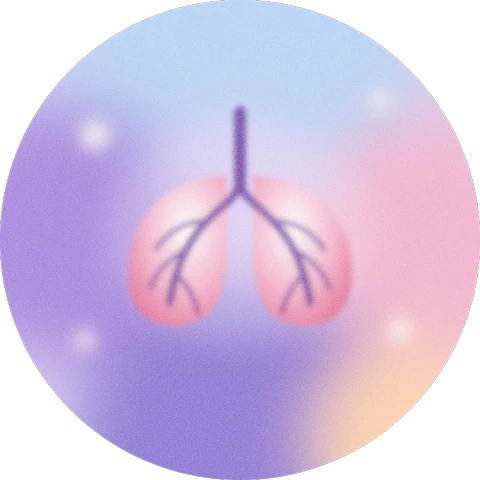
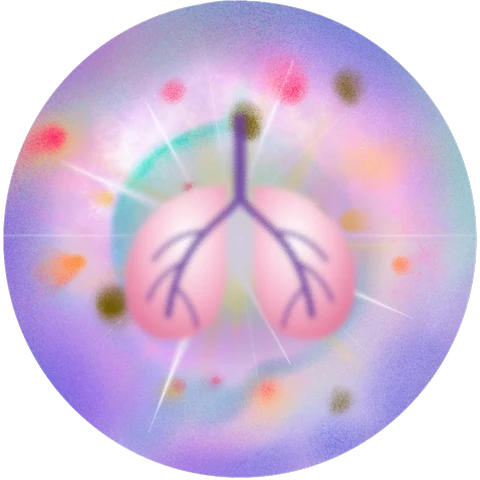
Explore: her own heart orb is back on Balance hormones (with the soft yin-yang) and her starburst orb on Breathe (with the soft lungs)

diff --git a/sw.js b/sw.js
@@ -1,5 +1,5 @@
 // Offline cache for the app shell. Bump VERSION when shipping changes.
-const VERSION = 'uts-v1357';
+const VERSION = 'uts-v1358';
 const SHELL = ['./', './index.html', './js/lotus.js', './styles.css', './manifest.json', './icons/icon-192.png', './icons/icon-512.png', './icons/apple-touch-icon.png', './icons/icon-64.png', './icons/icon-32.png', './icons/icon-maskable-512.png', './fonts/ballet-latin.woff2', './fonts/ballet-latin-ext.woff2',
   './js/app.js', './js/data.js', './js/cycle.js', './js/legal.js', './js/i18n.js', './js/icons.js', './js/cosmic.js', './js/astro.js', './js/moonguide.js', './js/moon3d.js', './js/figure.js', './js/figure3d.js', './js/torso.js', './js/torso3d.js', './js/photos.js', './js/seasonal.js', './js/world.js', './js/ground.js', './js/athlete.js', './js/bodymap.js', './js/molecules.js', './js/welcome3d.js', './js/teacup3d.js', './js/sfx.js', './js/ticketmotion.js', './js/sun.js', './js/account.js', './js/config.js', './images/planet.jpg', './images/gate-rose.webp', './images/lotus-menstrual.webp', './images/lotus-follicular.webp', './images/lotus-ovulatory.webp', './images/lotus-luteal.webp', './images/breath-bud.webp', './images/breath-bloom.webp', './images/period.png', './images/partner-cinema.webp', './images/partner-hands.jpg', './images/ground-roots.jpg', './images/ground/golden-roots.webp', './images/pixel-aura-0.png', './images/pixel-aura-1.png', './images/pixel-aura-2.png', './images/pixel-aura-3.png', './images/sun-moon.webp', './images/sun-moon.mp4', './images/tea-ginger.webp', './images/sun-moon-poster.webp', './images/rhythm-sun.webp', './images/move-stardust.mp4', './images/move-stardust.webp', './images/move-meditate.webp', './images/move-walk.webp', './images/move-yoga.webp', './images/move-sport.webp', './images/move-pilates.webp', './images/move-hiit.webp', './images/move-lift.webp', './images/season-veg.webp', './images/season-fruit.webp', './images/stress-meditate.mp4', './images/stress-meditate.webp', './images/stress-breathe.mp4', './images/stress-breathe.webp', './images/forest-path.jpg', './images/welcome-forest.jpg', './images/welcome-leaves.webp', './images/welcome-forest-bare.jpg', './images/intro-forest.jpg', './images/forest-calm.jpg', './images/tile-meditate.webp', './images/tile-ground.webp', './images/tile-walk.webp', './images/tile-yoga.webp', './images/tile-sport.webp', './images/tile-pilates.webp', './images/tile-hiit.webp', './images/tile-lift.webp', './images/purpose-body.jpg', './images/purpose-conceive.jpg', './images/purpose-after.jpg', './images/purpose-after-feet.jpg', './images/period-food.webp', './images/plate.webp', './images/read-lilies.webp', './images/read-seasons.webp', './models/body2.glb', './models/teacup.glb', './models/matcha.glb', './models/greentea.glb', './images/cup-matcha.webp', './models/soup.glb', './images/dish-soup.webp', './models/pho.glb', './images/dish-pho.webp', './models/miso.glb', './images/dish-miso.webp', './models/stew.glb', './images/dish-stew.webp', './models/veg-plate.glb', './models/salad-a.glb', './images/dish-salad-a.webp', './models/salad-b.glb', './images/dish-salad-b.webp', './images/dish-veg.webp', './models/taco.glb', './images/dish-taco.webp', './models/gyro.glb', './images/dish-gyro.webp', './models/marrow.glb', './images/dish-marrow.webp', './models/curry.glb', './images/dish-curry.webp', './models/steak.glb', './images/dish-steak.webp', './models/sweet-potato.glb', './images/dish-sweet-potato.webp', './models/mint-tea.glb', './images/cup-mint.webp', './models/chamomile.glb', './images/cup-chamomile.webp', './models/hibiscus.glb', './models/latte.glb', './models/coffee.glb', './models/broth.glb', './models/cortisol.glb', './images/cortisol-mol.webp', './models/moon.glb', './images/cup-chai.webp', './images/cup-hibiscus.webp', './images/cup-glass.webp', './sounds/forest-stream.m4a', './images/herbs/astragalus.svg', './images/herbs/red-dates.svg', './images/herbs/ginger.svg', './images/herbs/clove.svg', './images/herbs/cinnamon.svg', './images/herbs/goji.svg', './images/herbs/reishi.svg', './images/herbs/chaga.svg', './images/herbs/he-shou-wu.svg', './images/drinks/broth.svg', './images/drinks/cacao.svg', './images/drinks/chamomile-tea.svg', './images/drinks/coconut-water.svg', './images/drinks/coffee.svg', './images/drinks/ginger-tea.svg', './images/drinks/green-juice.svg', './images/drinks/hibiscus-tea.svg', './images/drinks/iced-matcha.svg', './images/drinks/lemon-water.svg', './images/drinks/matcha-latte.svg', './images/drinks/matcha.svg', './images/drinks/mineral-water.svg', './images/drinks/nettle-tea.svg', './images/drinks/raspberry-leaf-tea.svg', './images/drinks/red-date-tea.svg', './images/emoji/iron-ore.svg', './images/emoji/log-cramps.svg', './images/emoji/log-pelvic-pain.svg', './images/emoji/log-joint-pain.svg', './images/emoji/log-constipation.svg', './images/emoji/log-acne.svg', './images/emoji/log-brain-fog.svg', './images/emoji/log-unusual-colour.svg', './images/emoji/amla.svg', './images/emoji/apricot.svg', './images/emoji/artichoke.svg', './images/emoji/asian-pear.svg', './images/emoji/bamboo-shoot.svg', './images/emoji/bean-sprouts.svg', './images/emoji/bitter-gourd.svg', './images/emoji/black-trumpet.svg', './images/emoji/blackberry.svg', './images/emoji/bottle-gourd.svg', './images/emoji/brussels-sprouts.svg', './images/emoji/burdock.svg', './images/emoji/button-mushroom.svg', './images/emoji/cardoon.svg', './images/emoji/cassava.svg', './images/emoji/cauliflower.svg', './images/emoji/celeriac.svg', './images/emoji/chanterelle.svg', './images/emoji/chard.svg', './images/emoji/chayote.svg', './images/emoji/cloudberry.svg', './images/emoji/cranberry.svg', './images/emoji/currants.svg', './images/emoji/custard-apple.svg', './images/emoji/daikon.svg', './images/emoji/dandelion.svg', './images/emoji/dragon-fruit.svg', './images/emoji/drumsticks.svg', './images/emoji/elderberry.svg', './images/emoji/enoki.svg', './images/emoji/feijoa.svg', './images/emoji/fiddlehead.svg', './images/emoji/green-plum.svg', './images/emoji/guava.svg', './images/emoji/horseradish.svg', './images/emoji/jackfruit.svg', './images/emoji/jamun.svg', './images/emoji/jerusalem-artichoke.svg', './images/emoji/kale.svg', './images/emoji/king-oyster.svg', './images/emoji/kohlrabi.svg', './images/emoji/korean-melon.svg', './images/emoji/leek.svg', './images/emoji/lingonberry.svg', './images/emoji/lions-mane.svg', './images/emoji/long-beans.svg', './images/emoji/loquat.svg', './images/emoji/lotus-root.svg', './images/emoji/lychee.svg', './images/emoji/mangosteen.svg', './images/emoji/morel.svg', './images/emoji/okra.svg', './images/emoji/oyster-mushroom.svg', './images/emoji/papaya.svg', './images/emoji/parsnip.svg', './images/emoji/passion-fruit.svg', './images/emoji/persimmon.svg', './images/emoji/plum.svg', './images/emoji/porcini.svg', './images/emoji/prickly-pear.svg', './images/emoji/rambutan.svg', './images/emoji/raspberry.svg', './images/emoji/ridge-gourd.svg', './images/emoji/rosehip.svg', './images/emoji/salsify.svg', './images/emoji/samphire.svg', './images/emoji/sea-buckthorn.svg', './images/emoji/shiitake.svg', './images/emoji/spring-onion.svg', './images/emoji/starfruit.svg', './images/emoji/tamarind.svg', './images/emoji/taro.svg', './images/emoji/turnip.svg', './images/emoji/watercress.svg', './images/emoji/yuzu.svg', './images/emoji/almonds.webp', './images/emoji/asparagus.webp', './images/emoji/beetroot.webp', './images/emoji/black-sesame.webp', './images/emoji/cardamom.webp', './images/emoji/chia.webp', './images/emoji/cinnamon.webp', './images/emoji/fennel-seeds.webp', './images/emoji/fennel.webp', './images/emoji/fig.webp', './images/emoji/flaxseed.webp', './images/emoji/goji.webp', './images/emoji/hemp.webp', './images/emoji/liver.webp', './images/emoji/pomegranate.webp', './images/emoji/pumpkin-seeds.webp', './images/emoji/quince.webp', './images/emoji/radish.webp', './images/emoji/red-dates.webp', './images/emoji/rhubarb.webp', './images/emoji/sesame.webp', './images/emoji/sunflower-seeds.webp', './images/emoji/tahini.webp', './images/emoji/turmeric.webp', './images/emoji/walnuts.webp', './images/emoji/black-seed-oil.svg', './images/emoji/cacao.svg', './images/emoji/water.svg', './images/emoji/black-pepper.svg', './images/emoji/cumin.svg', './images/emoji/curry.svg', './images/emoji/dates.svg', './images/emoji/maple-syrup.svg', './images/emoji/mayonnaise.svg', './images/emoji/mustard.svg', './images/emoji/nutmeg.svg', './images/emoji/nutritional-yeast.svg', './images/emoji/paprika.svg', './images/emoji/tamari.svg', './images/emoji/toothpick.svg', './images/emoji/vanilla.svg', './images/bg/mist.webp', './images/bg/arch.webp', './images/bg/arch-band.webp', './images/bg/frame-band.webp', './images/bg/frame-top.webp', './images/bg/frame-bottom.webp', './images/bg/frame-side.webp', './images/bg/leaves.webp', './images/bg/lotus.webp', './images/bg/lotus-petals.webp', './images/bg/lotus-lines.webp', './images/bg/swirls.webp', './images/tea-glow-bg.webp', './images/herbs/astragalus-real.webp', './images/herbs/clove-real.webp', './images/herbs/chaga-real.webp', './images/herbs/reishi-real.webp', './images/herbs/he-shou-wu-photo.webp', './images/sf/astragalus.webp', './images/sf/elderberries.webp', './images/sf/walnuts.webp', './images/sf/iron.webp', './images/drinks/cup-covered.svg', './images/pets/bunny.svg', './images/pets/kitty.svg', './images/pets/bear.svg', './images/pets/panda.svg', './images/pets/fox.svg', './images/pets/frog.svg', './images/pets/chick.svg', './images/pets/hamster.svg'];
 

diff --git a/js/app.js b/js/app.js
@@ -2068,7 +2068,7 @@ function viewToday() {
 }
 // Explore: every button a full photo with a frosted label.
 function exploreGrid(info) {
-  // her own painted orbs (from Canva) with a little airbrushed motif: bee, ring of 28 days, a soft yin-yang for balance, soft lungs on a calm lilac orb, a steaming cup
+  // her own painted orbs (from Canva) with a little airbrushed motif: bee, ring of 28 days, a soft yin-yang on her heart orb, soft lungs on her starburst orb, a steaming cup
   const tiles = [['super', 'leaf', 'Superfoods', 'Spices & superfoods for your phase', 'images/xb/super.webp'], ['guide', 'chart', 'Cycle guide', `Day ${info.cd}, day by day`, 'images/xb/guide.webp'],
     ['relief', 'heart', 'Balance hormones', 'Step by step, fundamentals first', 'images/xb/relief.webp'],
     ['tea', 'cup', 'Tea guide', 'For every need', 'images/xb/tea.webp'], ['breathe', 'leaf', 'Breathe', 'Meditate & breathe', 'images/xb/breathe.webp']];
